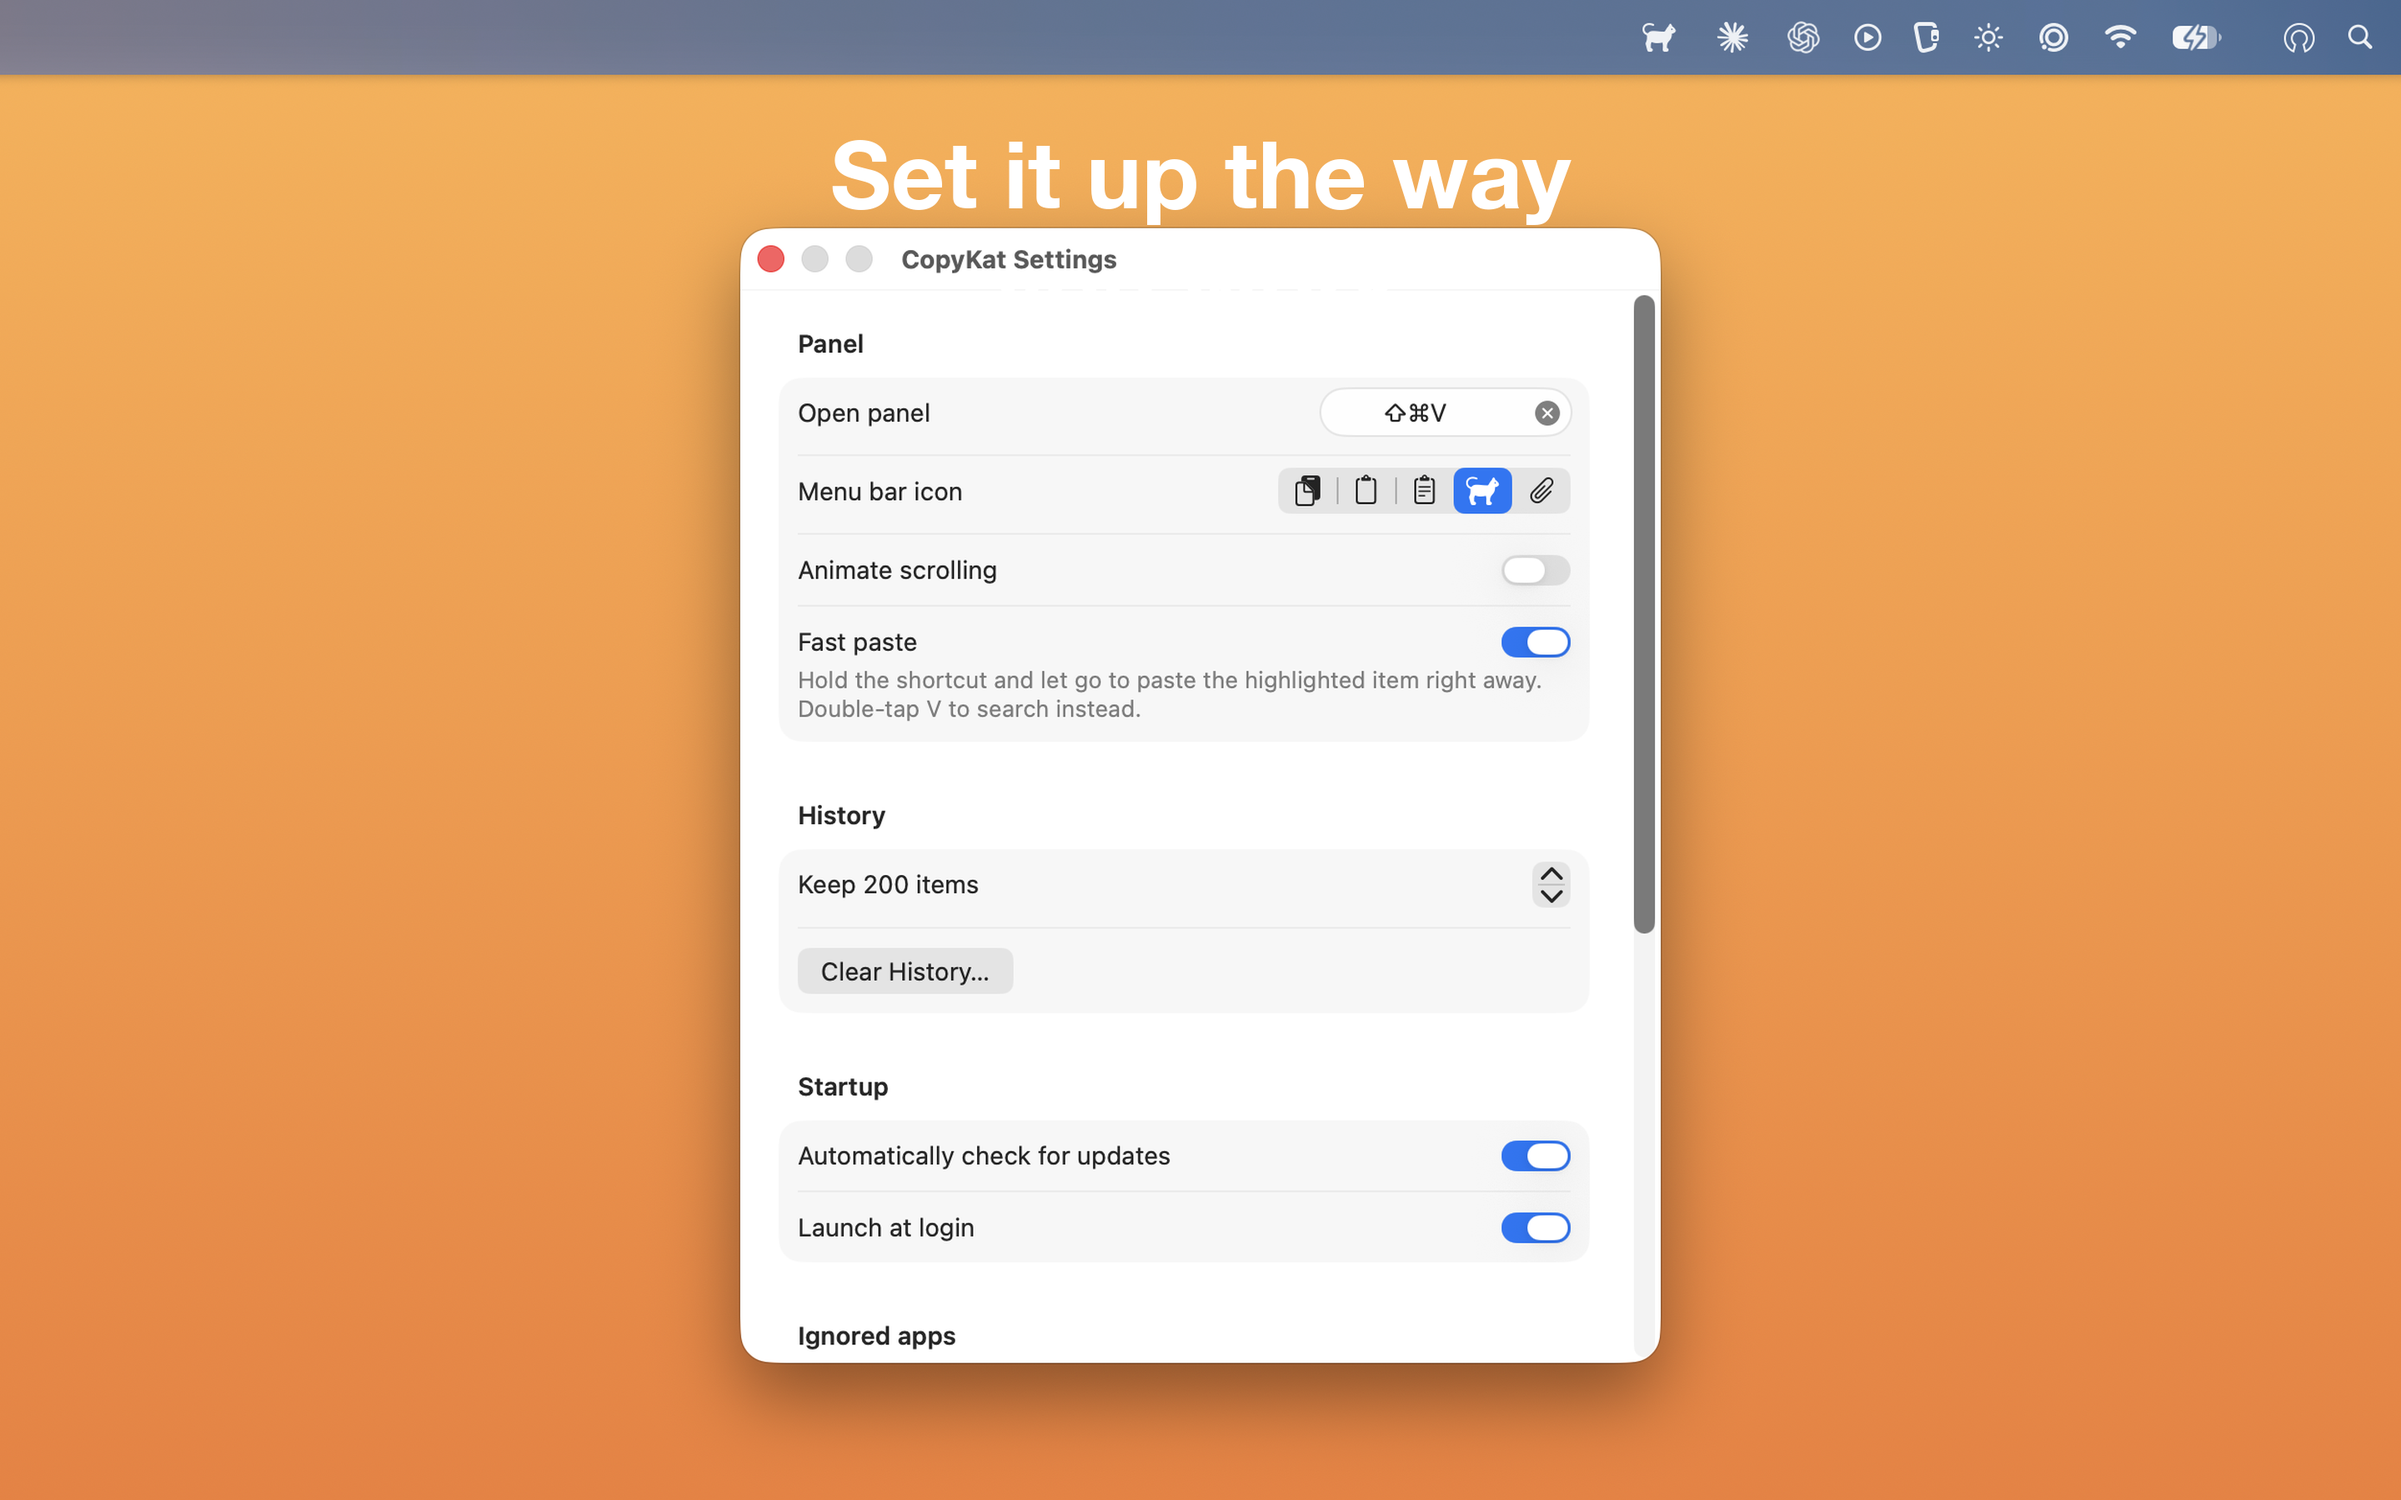
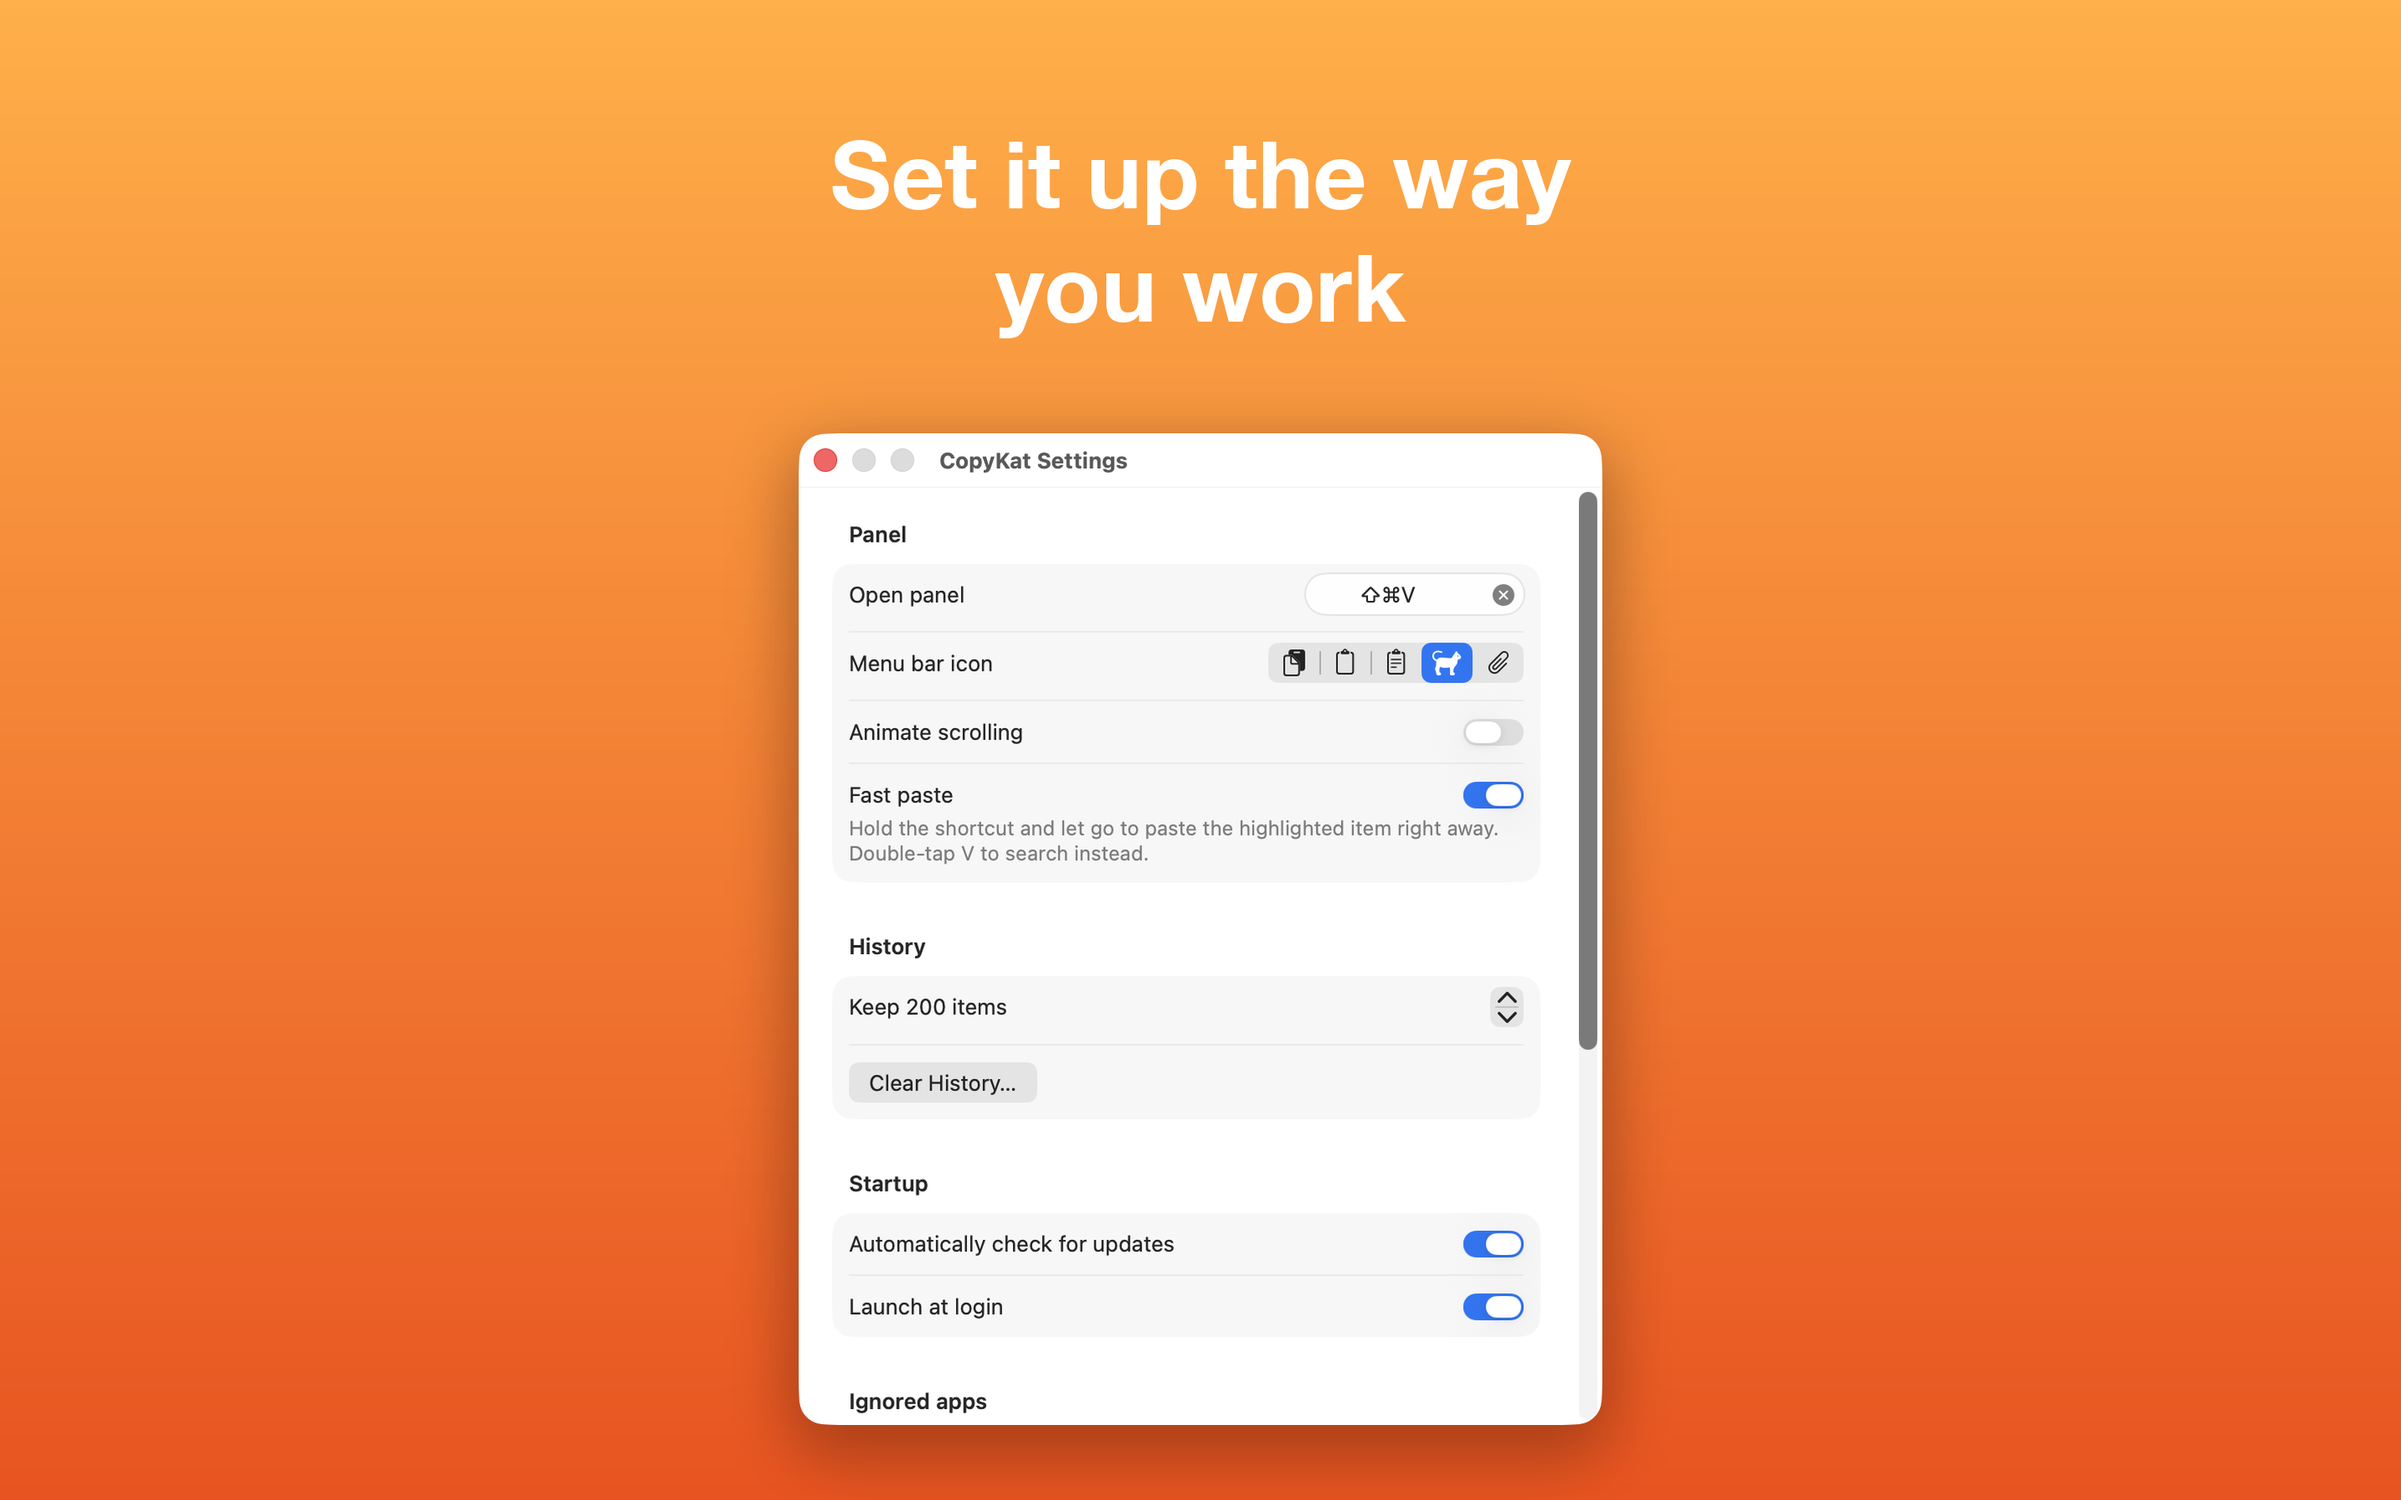
Show a Universal Clipboard item and centre the settings screenshot

diff --git a/CopyKat/App/AppState.swift b/CopyKat/App/AppState.swift
@@ -160,7 +160,7 @@ final class AppState {
                         self.panelViewModel.query = ProcessInfo.processInfo.environment["COPYKAT_DEMO_QUERY"] ?? "interfce"
                     default:
                         self.panelController?.show()
-                        self.panelViewModel.moveSelection(3)
+                        self.panelViewModel.moveSelection(2)
                     }
                 }
             } else if !AppSettings.hasCompletedOnboarding {
@@ -183,11 +183,20 @@ final class AppState {
             ("com.apple.Notes", "Notes", "IBAN BE31 6792 0034 9355"),
             ("com.apple.finder", "Finder", "Q3-invoice.pdf"),
         ]
+        let fromIPhone = "Flight BA2158, seat 14A, boarding 18:05"
         for (bundleID, name, text) in demo {
             try? historyStore.add(ClipboardCandidate(
                 content: .text(text), sourceAppBundleID: bundleID, sourceAppName: name
             ))
         }
+        // One item that arrived through Universal Clipboard, so the screenshots
+        // show what a copy from another device looks like.
+        var remote = ClipboardCandidate(
+            content: .text(fromIPhone), sourceAppBundleID: nil, sourceAppName: nil
+        )
+        remote.isRemote = true
+        try? historyStore.add(remote)
+
         panelViewModel.refresh()
     }
 
